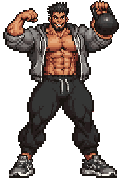
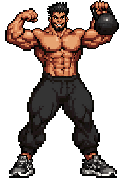
Floor 4 scaffold (dealer steals cards, Vincent recruit); 4 casino moves + 2 scenes (86/100); real middle stages for Champ and Non
Claude-Session: https://claude.ai/code/session_01VCzUnoAUkKZrLg4uFbhBUz

diff --git a/art/build_art.py b/art/build_art.py
@@ -7,7 +7,7 @@ CHARS = {
   'ben':    ('pilot/ben2_flash_0.png', 'pilot/ben2_A1_0.png', 'pilot/ben2_B_0.png'),
   'jompon': ('chars/jompon_A_0.png', 'chars/jompon_A1b_0.png', 'chars/jompon_B_0.png'),
   'dave':   ('chars/dave_A_0.png', 'chars/dave_A1_0.png', 'chars/dave_B2_0.png'),
-  'champ':  ('chars/champ_A_0.png', 'chars/champ_A_0.png', 'chars/champ_B_0.png'),
+  'champ':  ('chars/champ_A_0.png', 'chars/champ_A1n_0.png', 'chars/champ_B_0.png'),
   'ton':    ('chars/ton_A_0.png', 'chars/ton_A_0.png', 'chars/ton_B_0.png'),
   'ming':   ('chars/ming_A_0.png', 'chars/ming_A_0.png', 'chars/ming_B_0.png'),
   'jay':    ('chars/jay_A2_0.png', 'chars/jay_A2_0.png', 'chars/jay_B_0.png'),
@@ -15,7 +15,7 @@ CHARS = {
   'fah':    ('chars/fah_A_0.png', 'chars/fah_A_0.png', 'chars/fah_B2_0.png'),
   'q':      ('chars/q_A_0.png', 'chars/q_A_0.png', 'chars/q_B_0.png'),
   'tiger':  ('chars/tiger_A_0.png', 'chars/tiger_A1n_0.png', 'chars/tiger_B_0.png'),
-  'non':    ('chars/non_A_0.png', 'chars/non_A_0.png', 'chars/non_B_0.png'),
+  'non':    ('chars/non_A_0.png', 'chars/non_A1n_0.png', 'chars/non_B_0.png'),
   'wchain': ('chars/wchain_A_0.png', 'chars/wchain_A1_0.png', 'chars/wchain_B_0.png'),
   'wneedle': ('chars/wneedle_A_0.png', 'chars/wneedle_A1_0.png', 'chars/wneedle_B_0.png'),
   'wchub': ('chars/wchub_A_0.png', 'chars/wchub_A1f_0.png', 'chars/wchub_Bf_0.png'),

diff --git a/docs/ROADMAP.md b/docs/ROADMAP.md
@@ -92,7 +92,7 @@ Use these instead of nudity. Never draw genitals, even when a reference does.
   - gamer streamer (headset, tank pulled up)
   - doctor (stethoscope, open coat)
   - viking (axe, fur)
-- Tally (update every batch): 80/100 (+kan pilot, +max bartender) (+lasso, coin, highnoon, redress moves; +saloon, dust scenes) (+tex cowboy, +boat wrestler) (+armpit, massage, selfie, tackle moves; +dojo, heat scenes) (+oat mechanic, +somsak shy salaryman) (+plerng, +sak; +strip, spank, shower, protein moves; +stage, rain scenes)
+- Tally (update every batch): 86/100 (+allin, bluff, jackpot, chips moves; +roulette, vip scenes) (+kan pilot, +max bartender) (+lasso, coin, highnoon, redress moves; +saloon, dust scenes) (+tex cowboy, +boat wrestler) (+armpit, massage, selfie, tackle moves; +dojo, heat scenes) (+oat mechanic, +somsak shy salaryman) (+plerng, +sak; +strip, spank, shower, protein moves; +stage, rain scenes)
 
 ## Queue
 - [x] 1. Floor 2 "สังเวียนใต้ดิน": map data + floor select after floor 1 boss; boss "นักชกไร้หน้า" art (3 layers, boxing theme) + mechanic (counter-punch); sauna scenes for ไทเกอร์ and แชมป์ ร็อค; floor-2 event.
@@ -107,7 +107,7 @@ Use these instead of nudity. Never draw genitals, even when a reference does.
 - [x] 4. Battle backgrounds per floor shown behind the board (reused bg art: floor 1 prison, floor 2 gym, quick duel muaythai; new floors add FLOOR_BG entries).
 - [x] 5. Floor 3 "เมืองตะวันตกร้าง" + boss "มือปืนไร้หน้า" (shoots across lanes). DONE: FLOOR3 map/stamina/heroes (tex, jay), basic3/elite3 decks, gunman def (veil+snipe+quickdraw start-of-turn shot), Cole recruit, boss dialogs, western battle bg. The floor auto-unlocks once ART.gunman exists. Gunman art done (4 stages), tex sauna scene; floor 3 verified (FLOORS = 1,2,3; boss battle starts with 28 stamina).
 - [x] 6. Censor-style steam option in the BARE cut-in (settings: ไอน้ำบังตอน BARE, off by default) + settings panel.
-- [ ] 7. Floor 4 "คาสิโนจันทรา" + boss "เจ้ามือไร้หน้า" (steals a card).
+- [ ] 7. Floor 4 "คาสิโนจันทรา" + boss "เจ้ามือไร้หน้า" (steals a card). DONE: FLOOR4 map (heroes ming, max), basic4/elite4 decks, dealer def (veil+steal+counter; steals a hand card at turn start), Vincent recruit, dialogs, casino battle bg, bet event reused. TODO: dealer art (4 stages: tuxedo → waistcoat → shirt open → briefs with bow tie and garter armbands, blank mask) → the floor auto-unlocks.
 - [ ] 8. Floor 5 "สนามรบในหมอก" + boss "นายพลไร้หน้า".
 - [ ] 9. Floor 6 "โรงละครเวท" + boss "นักมายากลไร้หน้า".
 - [ ] 10. Floor 7: Vael (2 phases) + 3 endings.
@@ -127,4 +127,5 @@ Use these instead of nudity. Never draw genitals, even when a reference does.
   - Pass 4 (balance), 02:36: duel sim 50 → first player 56%; story sim 30 → battle 73% (too hard for an intro), so floor-1 battle stamina 15→13 → 93%; elite 67%, boss ~47%. Dan/Ming low win rates are an AI artifact (Dan's manual order ability, few Ming samples). Economy not changed. 
   - Pass 5 (visual), 03:58: light pass only. The battle backgrounds read well behind the dimmed board (checked in a screenshot). Boat buffed grit 6→7 after a 25% sim win rate. TODO next visual pass: the map screen could use the floor's bg art instead of a gradient. 
   - Pass 6 (content), 05:11: all hunks had BARE lines except cole/marcus/isaac → added; BOND_LINE added for tex, boat, somsak, oat, sak; Tex sauna scene. Sim watch: somsak 17%, stage 20%, armpit 29%, jay 27% (18-sample noise; recheck in the next balance pass). 
-  - Pass 7 (perf/bugs), 06:27: art folder 4.7MB (sprites ~20KB, bg 15–30KB), html 254KB; no page errors in smoke/meta/sims. A pilot pixen edit failed with HTTP 422 because the prompt was too long → keep edit prompts short (~300 chars). Next pass: 1 (art & sexiness; continue the A1 fixes: champ, ton, ming, jay, fah, q, non).
+  - Pass 7 (perf/bugs), 06:27: art folder 4.7MB (sprites ~20KB, bg 15–30KB), html 254KB; no page errors in smoke/meta/sims. A pilot pixen edit failed with HTTP 422 because the prompt was too long → keep edit prompts short (~300 chars). 
+  - Pass 1b (art), 07:41: real middle stages for champ (robe off, belt over shoulder) and non (hoodie off, flexing). Note: champ's B (red singlet) covers more than his new A1 (shirtless); consider a B redo. Remaining A1 fixes: ton, ming, jay, fah, q. Max recheck: 58–60% → fine. Next pass: 2 (game feel).
